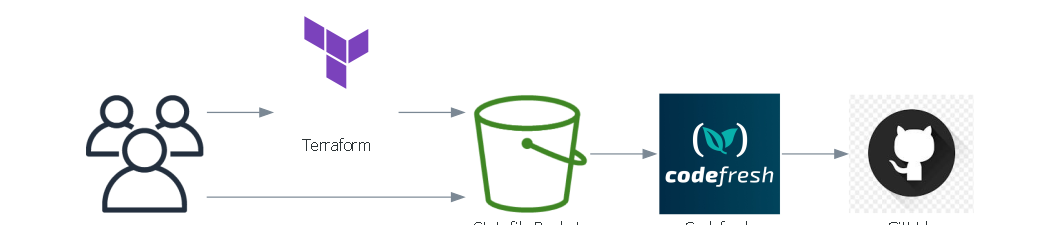
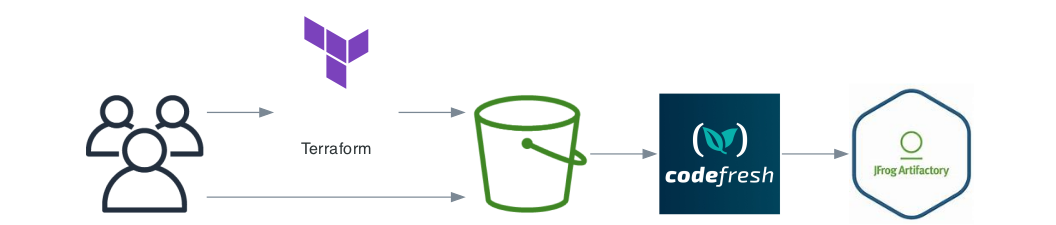
Fix for Image in CICD Example

Changed region(s): [[0.7812, 0.3733, 0.9375, 0.9956], [0.2812, 0.6222, 0.3438, 0.6844]]

diff --git a/diagram.py b/diagram.py
@@ -21,11 +21,11 @@ HOME_PATH = f"{Path(__file__).parent.resolve()}"
 def main():
     with Diagram(filename="images/diagram", show=False, direction="LR", graph_attr=graph_attr):
         aws_users = Users()
-        github = Custom("GitHub", icon_path=f"{HOME_PATH}/images/github.png")
+        artifactory = Custom("Artifactory", icon_path=f"{HOME_PATH}/images/jfrog_artifactory.png")
         terraform = Custom("Terraform", icon_path=f"{HOME_PATH}/images/terraform.png")
         s3_backend = S3("Statefile Bucket")
         codefresh = Custom("Codefresh", icon_path=f"{HOME_PATH}/images/codefresh.png")
-        aws_users >> s3_backend >> codefresh >> github
+        aws_users >> s3_backend >> codefresh >> artifactory
         aws_users >> terraform
         terraform >> s3_backend
 
